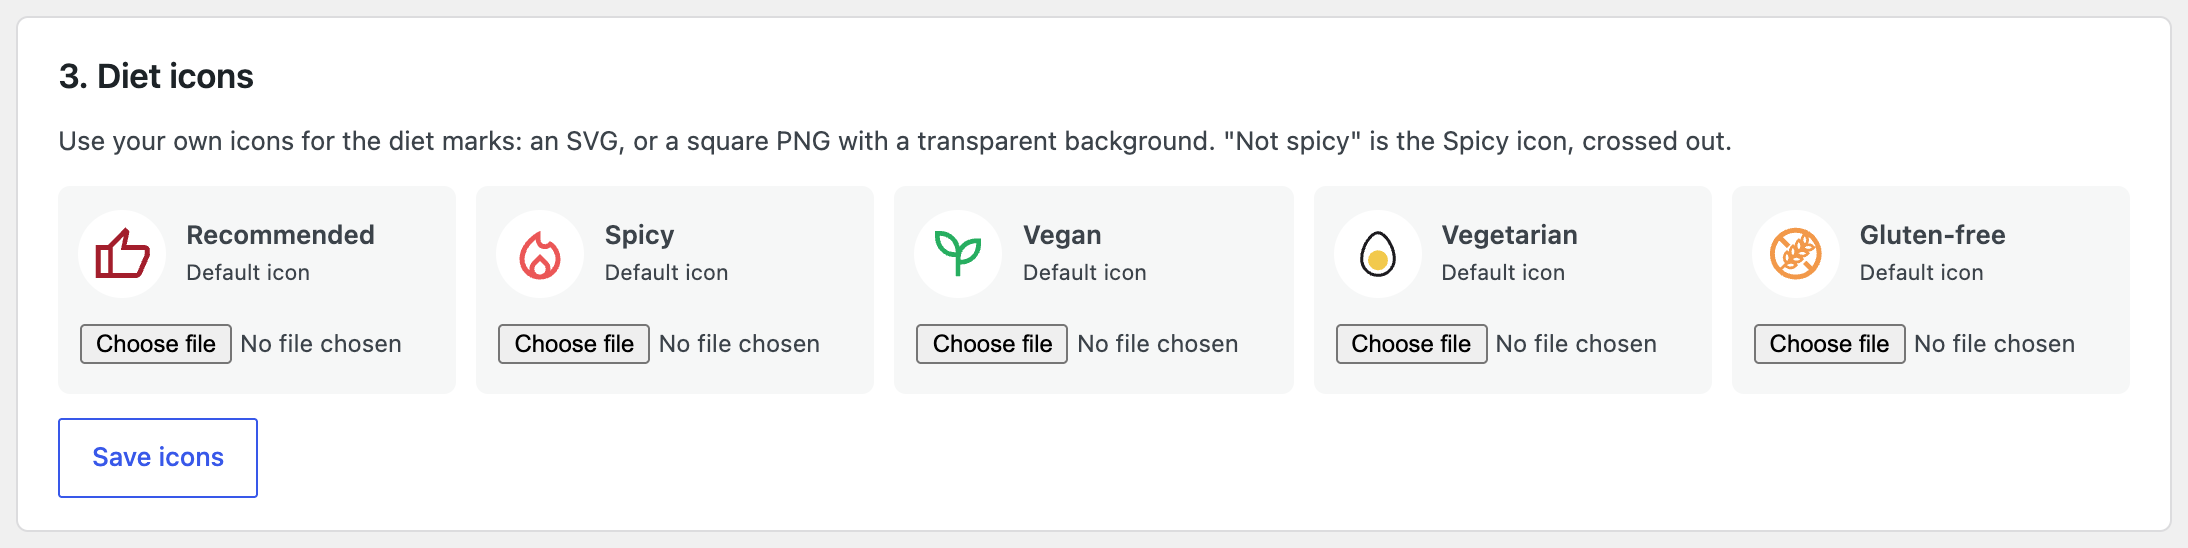
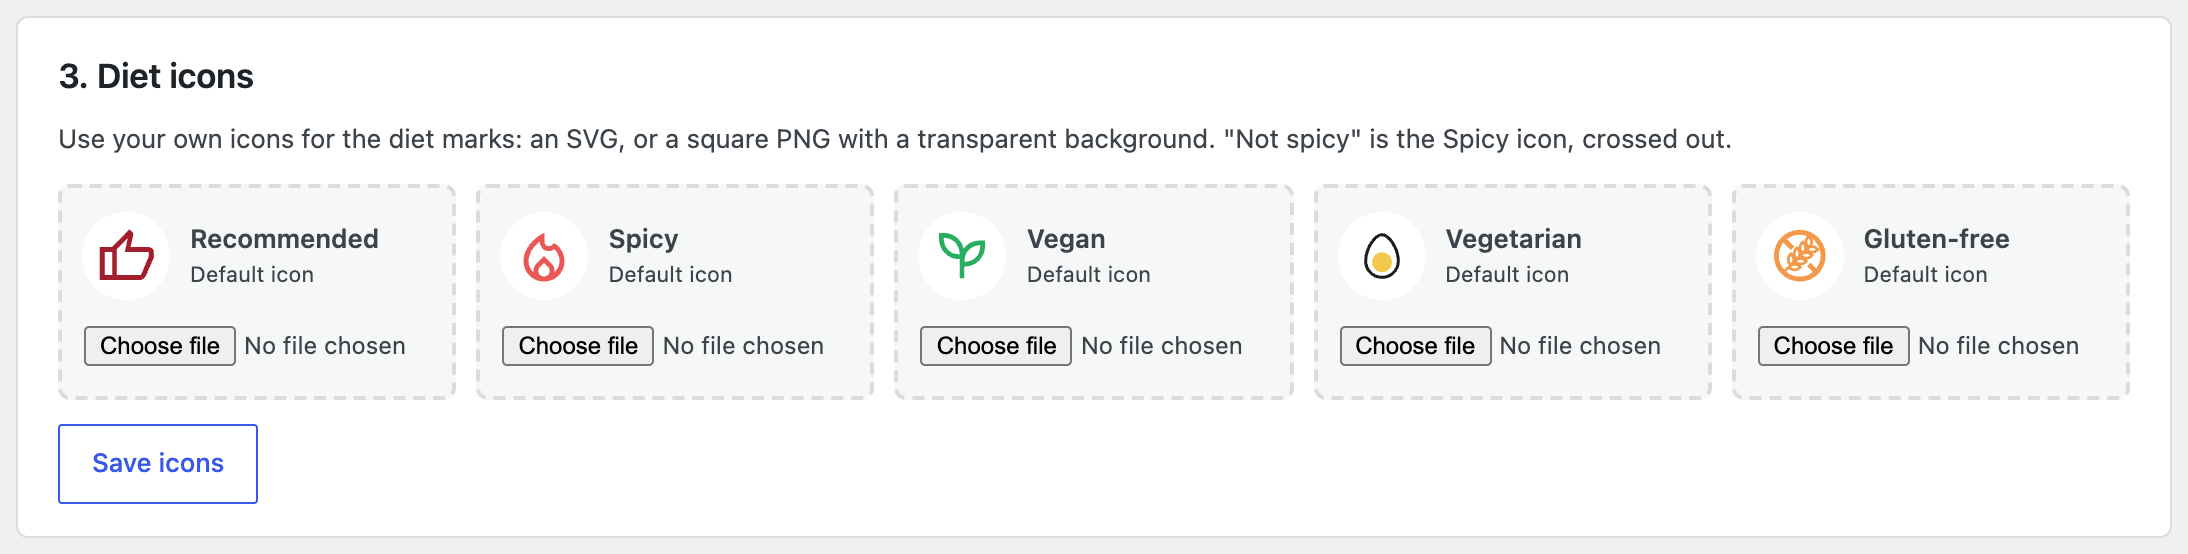
Docs: screenshots and guide for specials, holidays and opening hours
- README: screenshots of today's specials, the holiday notice and the
  opening-hours form.
- docs/GUIDE.md: sections for Today's specials, Holidays and closed days,
  Opening hours.
- All dashboard screenshots retaken with 1.2.0 (new boxes, drop areas).
- sample/specials-sample.csv; the demo loads it, sets example opening hours
  and adds a "Today" page with the three new shortcodes.
- dev/serve.sh: one worker, so logins aren't lost between requests.

diff --git a/dev/setup-demo.php b/dev/setup-demo.php
@@ -1,7 +1,9 @@
 <?php
 /**
  * Demo content for dev/serve.sh: a "Menu" page with [menudash], and the sample menu and
- * photos loaded the way the upload page would, unless a menu was uploaded before.
+ * photos loaded the way the upload page would, unless a menu was uploaded before. Also the
+ * sample specials, example opening hours and a "Today" page (?pagename=today) with
+ * [menudash_closed], [menudash_specials] and [menudash_hours].
  */
 
 require '/wordpress/wp-load.php';
@@ -34,4 +36,42 @@ if ( ! mdash_photo_index() ) {
 			mdash_photo_add( $photo, basename( $photo ) );
 		}
 	}
+}
+
+// Today's specials from the sample file, and example opening hours, unless set before.
+if ( ! mdash_get_specials() && ! mdash_specials_files() ) {
+	$stored = mdash_store_specials( '/menudash-sample/specials-sample.csv', 'specials-sample.csv' );
+	if ( $stored ) {
+		mdash_put_back_specials( $stored );
+	}
+}
+if ( ! array_filter( mdash_hours() ) ) {
+	$evening = array( array( '17:00', '22:00' ) );
+	$weekend = array( array( '11:30', '14:00' ), array( '17:00', '22:00' ) );
+	update_option( MDASH_HOURS_OPTION, array( 1 => array(), 2 => $evening, 3 => $evening, 4 => $evening, 5 => $evening, 6 => $weekend, 7 => $weekend ), false );
+}
+
+// A "Today" page with the other three shortcodes: the holiday notice (shown when one is
+// entered under MenuDash -> Holidays), the specials with a button to the menu, the hours.
+if ( ! get_page_by_path( 'today' ) ) {
+	$block = function ( $code ) {
+		return "<!-- wp:shortcode -->\n$code\n<!-- /wp:shortcode -->";
+	};
+	wp_insert_post(
+		array(
+			'post_type'    => 'page',
+			'post_status'  => 'publish',
+			'post_title'   => 'Today',
+			'post_name'    => 'today',
+			'post_content' => implode(
+				"\n\n",
+				array(
+					$block( '[menudash_closed]' ),
+					"<!-- wp:group {\"align\":\"wide\",\"layout\":{\"type\":\"constrained\",\"contentSize\":\"1120px\"}} -->\n<div class=\"wp-block-group alignwide\">" . $block( '[menudash_specials jump="?pagename=menu"]' ) . '</div>' . "\n<!-- /wp:group -->",
+					"<!-- wp:heading -->\n<h2 class=\"wp-block-heading\">Opening hours</h2>\n<!-- /wp:heading -->",
+					$block( '[menudash_hours lang="en"]' ),
+				)
+			),
+		)
+	);
 }

diff --git a/docs/GUIDE.md b/docs/GUIDE.md
@@ -77,6 +77,44 @@ Below the uploads is a list of every dish with its photo, or **"no photo"**, plu
 
 ---
 
+## Today's specials
+
+Put `[menudash_specials]` on a page (e.g. above `[menudash]`, with `switch="no" jump="#menu"`). Then make a small spreadsheet with **the same columns as the menu**; a row with only a name is a heading. Upload it in **Today's specials (CSV)** with **Choose CSV** (or drop it on the box) and **Upload specials**.
+
+<img src="dashboard/10-specials.png" alt="The Today's specials box after an upload" width="460"> <img src="dashboard/13-specials-page.png" alt="The specials on the page" width="560">
+
+- **Earlier files** keeps the last five specials files, each with **Put back**.
+- **Remove** takes the specials off the site; the files stay.
+- Dish photos are matched the same way as on the menu.
+
+---
+
+## Holidays and closed days
+
+Put `[menudash_closed]` where the notice should appear (a theme can place it under its header). In **Holidays & closed days**, enter the first and last closed day and **Save holidays**; **+ Add holiday** adds more, **Delete** removes one.
+
+<img src="dashboard/11-holidays.png" alt="The Holidays box with one period" width="820">
+
+- **Open again** (optional): the "we look forward to welcoming you again from …" day, if not the day after the last closed day.
+- **Note** (optional): a line under the notice.
+
+The notice appears 60 days before (`days="30"` changes that), turns red while the restaurant is closed, and disappears by itself after the last day:
+
+<img src="dashboard/14-holiday-notice.png" alt="The notice before the holidays" width="820">
+<img src="dashboard/15-holiday-notice-closed.png" alt="The notice while closed" width="820">
+
+---
+
+## Opening hours
+
+Put `[menudash_hours]` where the hours should appear (e.g. the footer). Open **Opening hours**, tick **Closed** for a day off, pick the times, and use the second pair only for a break. Days with the same hours are joined in the table.
+
+<img src="dashboard/12-opening-hours.png" alt="Opening hours with time pickers and a preview" width="820">
+
+The table carries the hours as `data-hours` JSON (JavaScript day numbers, 0 = Sunday), so a theme can show an "open now" badge from them.
+
+---
+
 ## Diet icons
 
 The five marks (Recommended, Spicy, Vegan, Vegetarian, Gluten-free) come with icons. To use your own, go to **MenuDash → 3. Diet icons**, choose a file next to the mark, and click **Save icons**. "Not spicy" uses the Spicy icon, crossed out.

diff --git a/README.md b/README.md
@@ -36,6 +36,10 @@ A restaurant menu for a WordPress site, kept in a spreadsheet. The restaurant up
 |---|---|
 | ![The MenuDash upload page after a menu upload](docs/dashboard/02-menu-uploaded.png) | ![Every dish with its photo, marks and price](docs/dashboard/06-check.png) |
 
+| Today's specials | Holiday notice and opening hours |
+|---|---|
+| ![Today's specials above the menu, with a button to the menu](docs/dashboard/13-specials-page.png) | ![The holiday notice while closed](docs/dashboard/15-holiday-notice-closed.png) ![Opening hours with time pickers](docs/dashboard/12-opening-hours.png) |
+
 A step-by-step guide for restaurant staff is in [docs/GUIDE.md](docs/GUIDE.md). It has a screenshot for every step.
 
 ## Install
